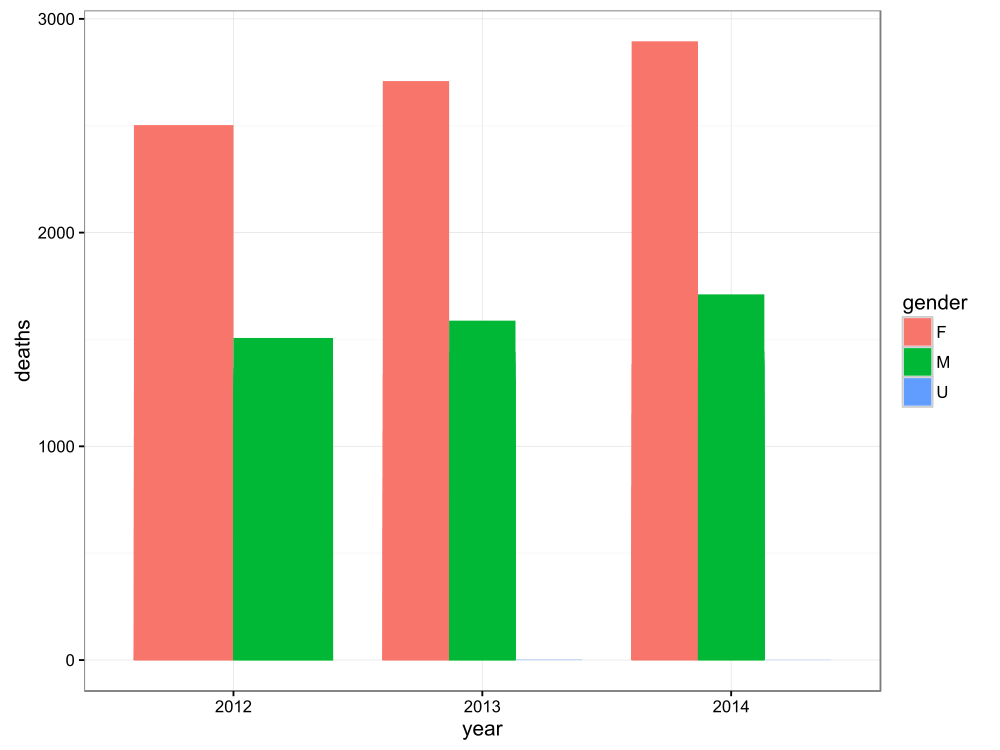
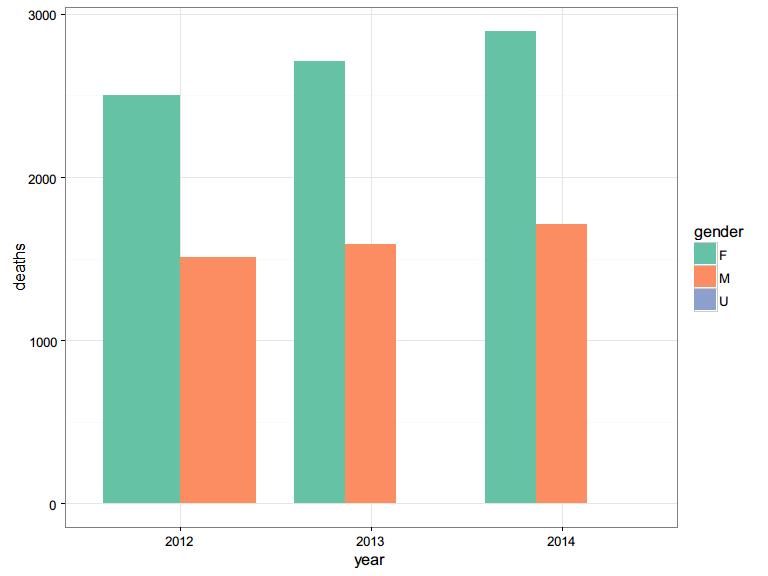
change color

diff --git a/_posts/2016-03-31-Report.md b/_posts/2016-03-31-Report.md
@@ -117,7 +117,7 @@ tags:
 </div>
 <div class="section level2">
 <h2>死亡原因</h2>
-<p>可以看到，主要的致死原因是循环系统疾病，其中男性多余女性（柱状图是按照人数多少绘制的，人数多的分类会排在底部，所以基本上绿色都在底部）。 比较有意思的是1-095，也就是由外力导致的死亡男性远多于女性，而1-084，也就是泌尿生殖系统疾病则是女性多于男性。各个分类的含义和相应的死亡人数附在了图的下面，供大家参考。</p>
+<p>可以看到，主要的致死原因是循环系统疾病，其中男性多余女性（柱状图是按照人数多少绘制的，人数多的分类会排在底部，所以基本上橘黄色都在底部）。 比较有意思的是1-095，也就是由外力导致的死亡男性远多于女性，而1-084，也就是泌尿生殖系统疾病则是女性多于男性。各个分类的含义和相应的死亡人数附在了图的下面，供大家参考。</p>
 <p><img src="/public/images/death/unnamed-chunk-6-1.png" alt="" /><!-- --></p>
 <table>
 <thead>
